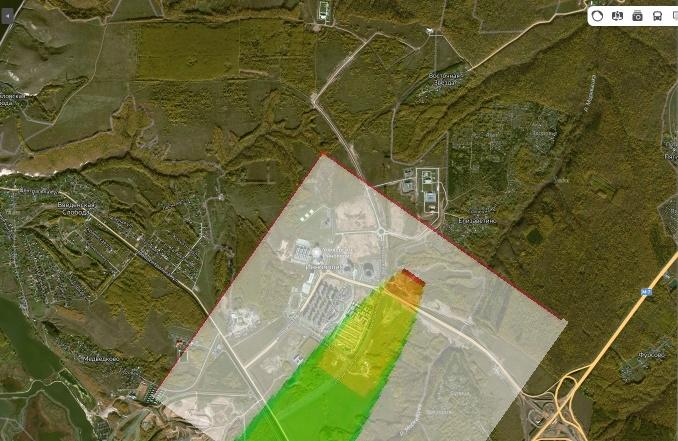
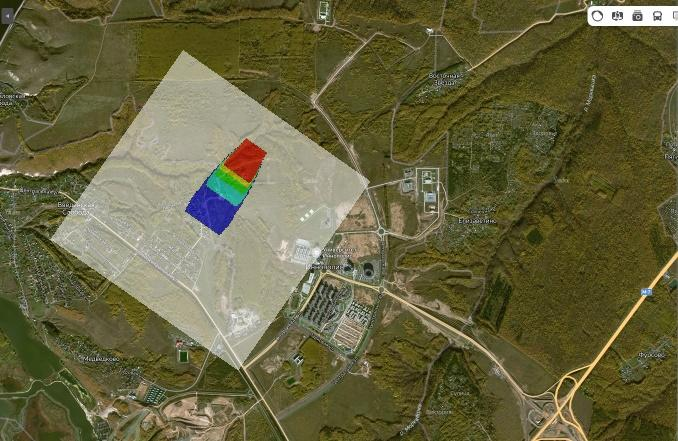
///

diff --git a/sandbox/del_.py b/sandbox/del_.py
@@ -1,99 +1,111 @@
 import sys
-from PyQt5 import QtCore, QtGui, QtWidgets
-from PyQt5.QtWidgets import QApplication, QMainWindow
-from PyQt5.QtGui import QPainter, QPainterPath
-from PyQt5.QtCore import QSize
-from random import randint
-
-ded = [
-    [(140, 140), (570, 525)],
-    [(20, 20), (350, 525), (100, 300), (20, 20)],
-    [(50, 50), (280, 175), (150, 240)],
-    [(80, 80), (210, 225), (300, 300), (340, 40)],
-    [(510, 110), (340, 275), (490, 390), (510, 110)]]
+from PyQt5.QtCore import Qt
+from PyQt5.QtNetwork import QTcpSocket, QHostAddress
+from PyQt5.QtWidgets import QApplication, QWidget, QTextBrowser, QTextEdit, QSplitter, QPushButton, \
+                            QHBoxLayout, QVBoxLayout
 
 
-from PyQt5 import QtCore, QtGui, QtWidgets
-
-class GraphicsView(QtWidgets.QGraphicsView):                                    # +++
-    def __init__(self, parent=None):
-        super(GraphicsView, self).__init__(parent)
-        self.setScene(QtWidgets.QGraphicsScene(self))
-        self.resize(1000, 600)
-
-        self.setTransformationAnchor(QtWidgets.QGraphicsView.AnchorUnderMouse)
-        self.setResizeAnchor(QtWidgets.QGraphicsView.AnchorUnderMouse)
-        self.setVerticalScrollBarPolicy(QtCore.Qt.ScrollBarAlwaysOff)
-        self.setHorizontalScrollBarPolicy(QtCore.Qt.ScrollBarAlwaysOff)
-        self.setBackgroundBrush(QtGui.QBrush(QtGui.QColor(30, 30, 30)))
-        self.setFrameShape(QtWidgets.QFrame.NoFrame)
-
-    def wheelEvent(self, event):
-        """ Увеличение или уменьшение масштаба. """
-        zoomInFactor = 1.25
-        zoomOutFactor = 1 / zoomInFactor
-
-        # Save the scene pos
-        oldPos = self.mapToScene(event.pos())
-
-        # Zoom
-        if event.angleDelta().y() > 0:
-            zoomFactor = zoomInFactor
-        else:
-            zoomFactor = zoomOutFactor
-        self.scale(zoomFactor, zoomFactor)
-
-        # Get the new position
-        newPos = self.mapToScene(event.pos())
-
-        # Move scene to old position
-        delta = newPos - oldPos
-        self.translate(delta.x(), delta.y())
-
-
-class MainWindow(QMainWindow):
+class Client(QWidget):
     def __init__(self):
-        super().__init__()
-        self.initUI()
+        super(Client, self).__init__()
+        self.resize(500, 450)
 
-        self.w = GraphicsView(self)                                       # +++
-        self.drawLine()                                                   # +++
+        # 1. Создайте элемент управления и завершите макет интерфейса.
+        # Код макета находится в функции layout_init().
 
-    def initUI(self):
-        self.setMinimumSize(QSize(200, 200))
-        self.resize(1000, 600)
-        self.setWindowTitle('Das')
+        self.browser = QTextBrowser(self)
+        self.edit = QTextEdit(self)
 
-#    def paintEvent(self, e):
-#        qp = QPainter()
-#        qp.begin(self)
-#        qp.setRenderHint(QPainter.Antialiasing)
-#        self.drawLine(qp)
-#        qp.end()
+        self.splitter = QSplitter(self)
+        self.splitter.setOrientation(Qt.Vertical)
+        self.splitter.addWidget(self.browser)
+        self.splitter.addWidget(self.edit)
+        self.splitter.setSizes([350, 100])
 
-    def drawLine(self, qp=None):                    # + =None
-        path = QPainterPath()
-        def draw_trajectory(line):
-            for i, (x, y) in enumerate(line):
-                if i == 0:
-                    path.moveTo(x, y)
-                else:
-                    path.lineTo(x, y)
+        self.send_btn = QPushButton('Send', self)
+        self.close_btn = QPushButton('Close', self)
 
-        for line in ded:
-            draw_trajectory(line)
+        self.h_layout = QHBoxLayout()
+        self.v_layout = QVBoxLayout()
 
-#            qp.drawPath(path)
+        # 2. Создайте объект QTcpSocket и вызовите метод connectToHost()
+        # для подключения к целевому хосту на указанном порту
+        # (в это время будут выполнены три операции рукопожатия).
+        # Если клиент и сервер успешно соединены, будет подан сигнал connected()
 
-            self.w.scene().addPath(                                        # +++
-                path,
-                QtGui.QPen(QtGui.QColor(230, 230, 230)),
-                QtGui.QBrush(QtGui.QColor(*[randint(0, 255) for _ in range(4)]))
-                )
+        self.sock = QTcpSocket(self)
+        self.sock.connectToHost(QHostAddress.LocalHost, 9090)
+
+        self.layout_init()
+        self.signal_init()
+
+    def layout_init(self):
+        self.h_layout.addStretch(1)
+        self.h_layout.addWidget(self.close_btn)
+        self.h_layout.addWidget(self.send_btn)
+        self.v_layout.addWidget(self.splitter)
+        self.v_layout.addLayout(self.h_layout)
+        self.setLayout(self.v_layout)
+
+    # 3. Выполните операции по подключению сигналов и слотов в функции signal_init().
+    # Когда пользователь закончит ввод текста в поле для редактирования текста QTextEdit,
+    # нажмите кнопку 'Send', чтобы отправить текст на сервер.
+    # В функции слота write_data_slot() мы сначала получаем текст в поле для редактирования текста,
+    # затем кодируем его и отправляем, используя метод write()
+    # ( нет необходимости записывать адрес назначения и порт, потому что,
+    # он был ранее указан с помощью метода connectToHost() )
+    # После отправки мы очищаем поле для редактирования текста.
+
+    def signal_init(self):
+        self.send_btn.clicked.connect(self.write_data_slot)
+
+        # 4. Когда пользователь нажимает кнопку закрытия,
+        # вызывается метод close_slot(), чтобы закрыть сокет QTcpSocket,
+        # и закрываем окно.
+        self.close_btn.clicked.connect(self.close_slot)
+
+        # Как упоминалось ранее, когда клиент и сервер успешно подключены,
+        # будет подключен сигнал connected.
+        # Мы подключаем этот сигнал к функции слота connected_slot().
+        self.sock.connected.connect(self.connected_slot)
+
+        # Сигнал readyRead испускается,
+        # когда новые данные готовы для чтения.
+        self.sock.readyRead.connect(self.read_data_slot)
+
+    def write_data_slot(self):
+        message = self.edit.toPlainText()
+        self.browser.append('Client: {}'.format(message))
+        datagram = message.encode()  # кодируем
+        self.sock.write(datagram)    # отправляем
+        self.edit.clear()            # очищаем поле для редактирования текста
+
+    # В этой функции слота мы просто добавляем строку 'Connected! Ready to chat! :)' ,
+    # чтобы напомнить пользователям, что они могут общаться.
+    def connected_slot(self):
+        message = 'Connected! Ready to chat! :)'
+        self.browser.append(message)
+
+    # Мы используем метод bytesAvailable(), чтобы определить, есть ли данные,
+    # и если это так, мы вызываем метод read(), чтобы получить данные размера bytesAvailable().
+    # Затем данные декодируются и отображаются на экране.
+    def read_data_slot(self):
+        while self.sock.bytesAvailable():
+            datagram = self.sock.read(self.sock.bytesAvailable())
+            message = datagram.decode()
+            self.browser.append('Server: {}'.format(message))
+
+    def close_slot(self):
+        self.sock.close()                   # закрыть сокет QTcpSocket
+        self.close()
+
+    def closeEvent(self, event):
+        self.sock.close()
+        event.accept()
 
 
 if __name__ == '__main__':
     app = QApplication(sys.argv)
-    w = MainWindow()
-    w.show()
-    sys.exit(app.exec_())  
+    demo = Client()
+    demo.show()
+    sys.exit(app.exec_())

diff --git a/toxi/toxic_dispersion.py b/toxi/toxic_dispersion.py
@@ -1,9 +1,8 @@
-import sys
-
 from PySide2 import QtGui
-import traceback
 from pathlib import Path
 import xlwings as xw
+import matplotlib.pyplot as plt
+from matplotlib.colors import ListedColormap
 
 
 def get_row_col_index(sheet):
@@ -94,15 +93,6 @@ def set_pix_color(qimg_zone, max_el, value, x ,y):
     # elif max_el * 0.0002 > value >= max_el * 0.0001:
     #     qimg_zone.setPixelColor(x, y, QtGui.QColor(0, 0, 255, 255))
 
-def get_max_elem(data:list):
-    max_elem = 0
-    for list_ in data:
-        i = max(list_)
-        if i>max_elem:
-            max_elem = i
-    print(max_elem)
-    return max_elem
-
 
 DATA_PATH = Path.cwd()
 SCALE = 1.443  # т.е. в 1 метре 1.443 пикселя
@@ -117,85 +107,24 @@ if row != 0 and col != 0:
 else:
     val = 0
 
-
+#
+cmap = ListedColormap(["white", "blue", "cyan", "lime", "yellow", 'red'])
+plt.figure(figsize=(10, 10), dpi=30)
+plt.imshow(val, cmap=cmap, interpolation='bicubic', vmax=0.1)
+plt.axis('off')
+plt.savefig('res.jpg', bbox_inches='tight', pad_inches=0)
 
 app = QtGui.QGuiApplication([])
-pixmap = QtGui.QPixmap(row[0], col[1])
-pixmap.fill(QtGui.QColor(255, 255, 255, 255))
-image_zone = pixmap.toImage()  #
-
-max_elem = get_max_elem(val)
-
-for row in range(0, col[1]-1):
-    for iter in range(0, len(val[row])-1):
-        set_pix_color(image_zone, max_elem, val[row][iter], iter, row)
-
-image_zone.save('res.jpg')
-
 # Положим одну картинку на другую
 pixmap_map = QtGui.QPixmap('map.jpg')
+# **************************************
+pixmap_zone = QtGui.QPixmap('res.jpg')
+# pixmap_zone = pixmap_zone.scaled(300, 300)
+t = QtGui.QTransform().rotate(35)
+# **************************************
 painter = QtGui.QPainter(pixmap_map)
 painter.begin(pixmap_map)
 painter.setOpacity(0.5)
-painter.drawPixmap(0, 0, QtGui.QPixmap('res.jpg'))
+painter.drawPixmap(50, 50, pixmap_zone.transformed(t))
 painter.end()
 pixmap_map.save('map_plus_res.jpg')
-# pixmap_zone = QPixmap(map.width(), map.height())
-# # Создадим QPainter
-# qp = QPainter(pixmap_zone)
-# # Начнем рисование
-# qp.begin(pixmap_zone)
-
-
-# print(val)
-
-
-#
-# class Example(QWidget):
-#
-#     def __init__(self, scale=8, pos_x=500, pos_y=500):
-#         super().__init__()
-#         self.scale = scale
-#         self.pos_x = pos_x
-#         self.pos_y = pos_y
-#         self.initUI()
-#
-#     def initUI(self):
-#         # Рисование данных
-#         # 1. Получим на основе копии картинки основу для рисования
-#         map = QPixmap("map.jpg")
-#         pixmap_zone = QPixmap(map.width(), map.height())
-#         pixmap_zone.fill(QColor(255, 255, 255, 255))
-#
-#         # Создадим QPainter
-#         qp = QPainter(pixmap_zone)
-#         # Начнем рисование
-#         qp.begin(pixmap_zone)
-#
-#         hbox = QHBoxLayout(self)
-#         pixmap = QPixmap.fromImage(image)
-#
-#         lbl = QLabel(self)
-#         lbl.setPixmap(pixmap)
-#
-#         hbox.addWidget(lbl)
-#         self.setLayout(hbox)
-#
-#         self.move(300, 200)
-#         self.setWindowTitle('Toxi')
-#         self.show()
-#
-#
-# def log_uncaught_exceptions(ex_cls, ex, tb):
-#     # pyqt визуализация ошибок
-#     text = '{}: {}:\n'.format(ex_cls.__name__, ex)
-#     text += ''.join(traceback.format_tb(tb))
-#     print(text)
-#     QMessageBox.critical(None, 'Error', text)
-#     sys.exit()
-#
-#
-# sys.excepthook = log_uncaught_exceptions
-# if __name__ == '__main__':
-#     app = QApplication(sys.argv)
-#     main = Example()
